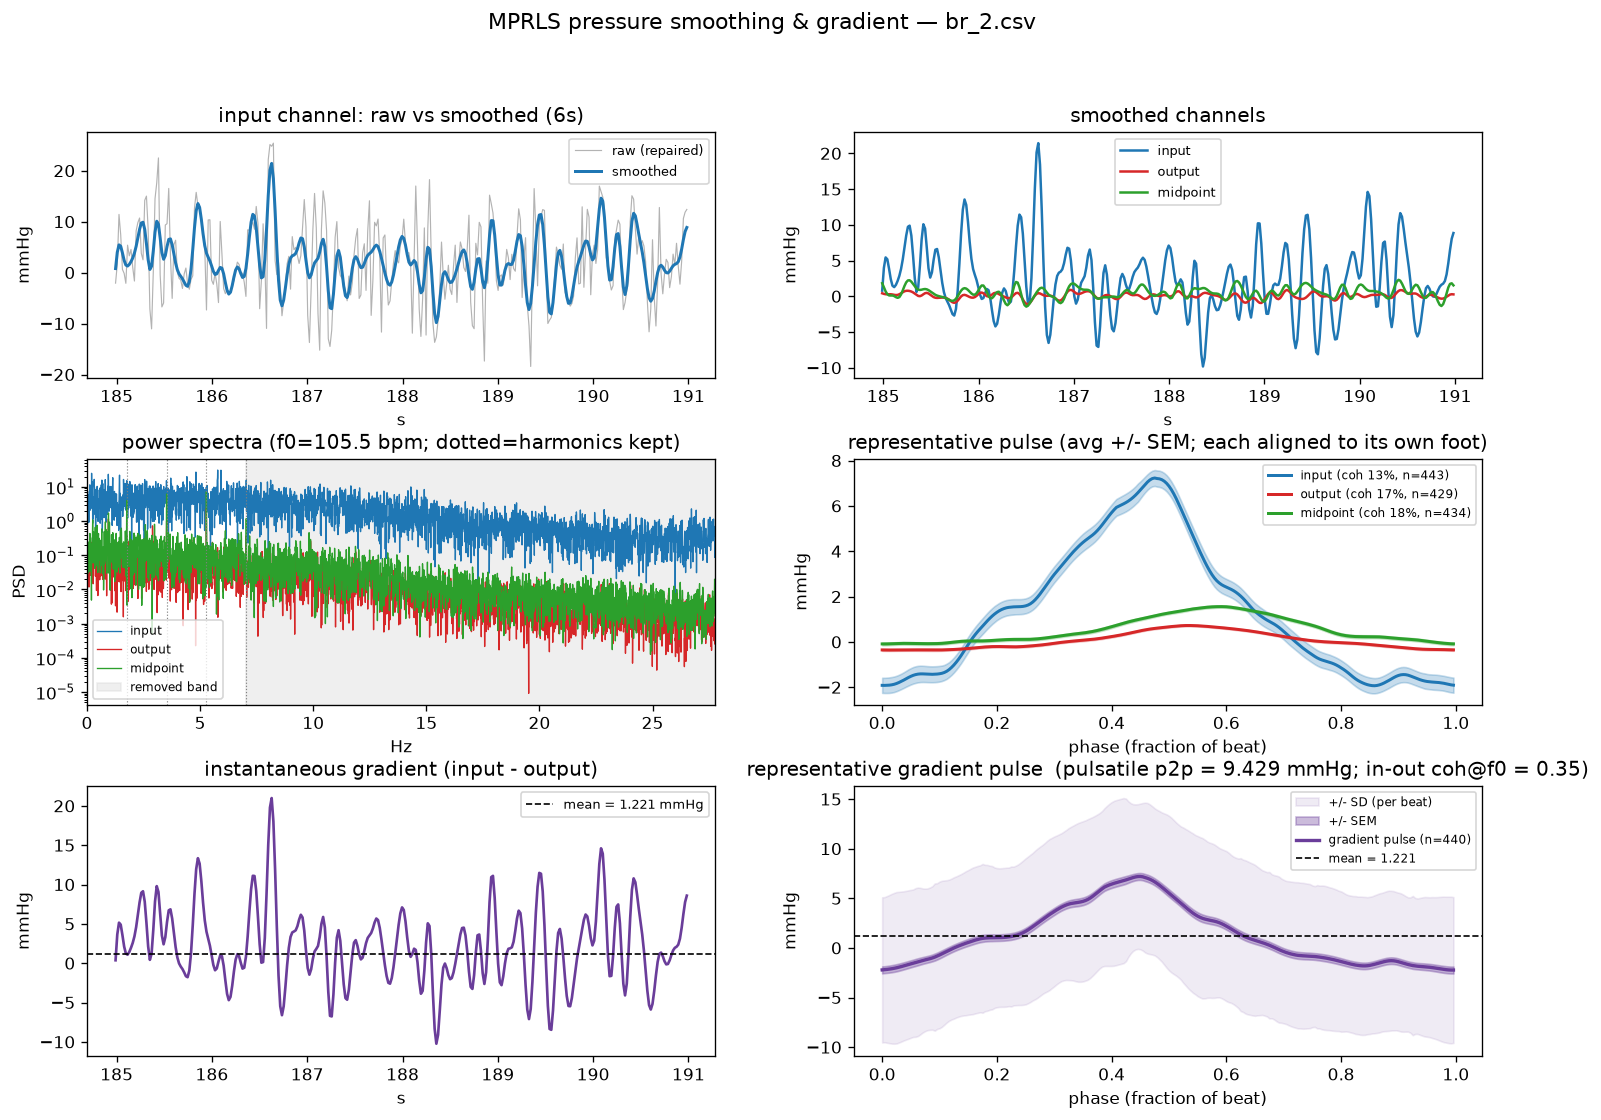
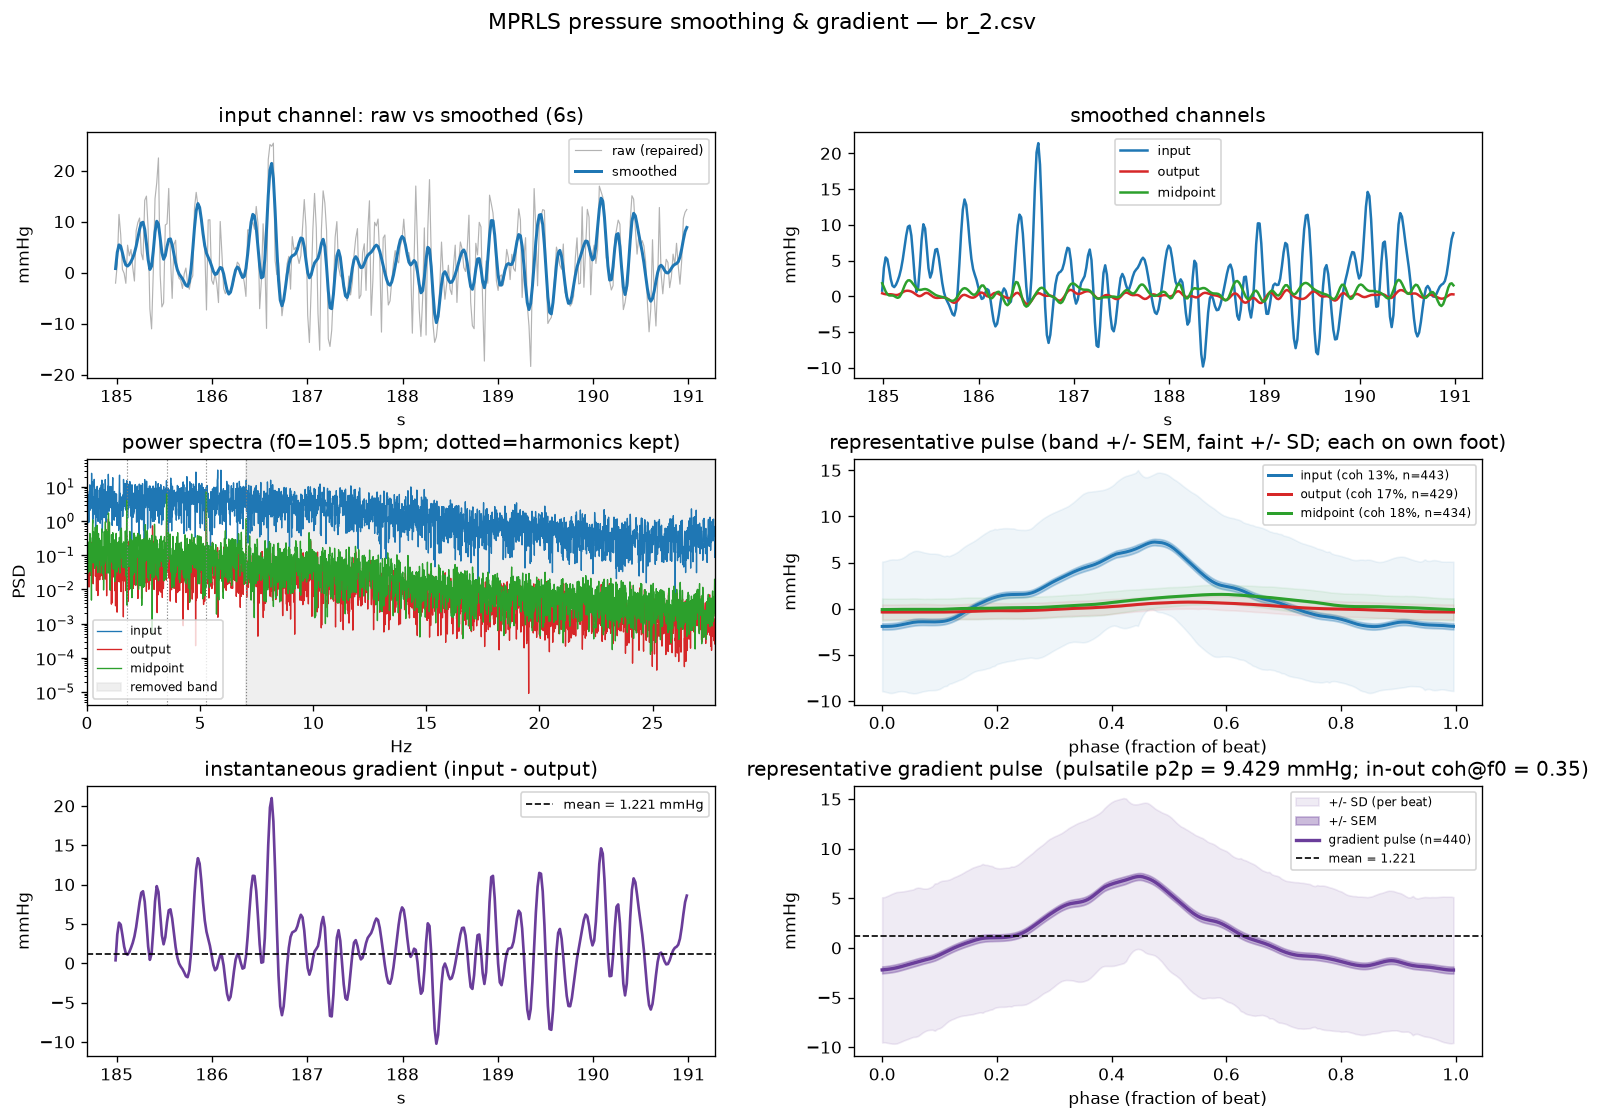
plot_pulses/plot_analysis: add +/- SD band to the representative-pulse panel
The representative-pulse panels now show both bands per channel -- SEM (how well
the mean pulse is known) and the faint per-beat SD (the beat-to-beat scatter the
vibration causes) -- matching the gradient-pulse panel. Refreshes the worked
example figures.

Claude-Session: https://claude.ai/code/session_01C8CobvnxomkoKFp8tfAX21

Changed region(s): [[0.5309, 0.375, 0.9369, 0.625], [0.4997, 0.4062, 0.5309, 0.4688], [0.4685, 0.5, 0.5309, 0.5312]]

diff --git a/mprls_pressure/pressure.py b/mprls_pressure/pressure.py
@@ -793,11 +793,13 @@ def plot_analysis(analysis: PressureAnalysis, output_path, *, zoom_s: float = 6.
     ax = fig.add_subplot(gs[1, 1])
     for name, ch in chans.items():
         if ch.n_beats:
+            ax.fill_between(ch.phase, ch.template - ch.template_std,
+                            ch.template + ch.template_std, color=colors[name], alpha=0.07)
+            ax.fill_between(ch.phase, ch.template - ch.template_sem,
+                            ch.template + ch.template_sem, color=colors[name], alpha=0.30)
             ax.plot(ch.phase, ch.template, color=colors[name], lw=1.8,
                     label=f"{name} (coh {ch.coherence*100:.0f}%, n={ch.n_beats})")
-            ax.fill_between(ch.phase, ch.template - ch.template_sem,
-                            ch.template + ch.template_sem, color=colors[name], alpha=0.25)
-    ax.set_title("representative pulse (avg +/- SEM; each aligned to its own foot)")
+    ax.set_title("representative pulse (band +/- SEM, faint +/- SD; each on own foot)")
     ax.set_xlabel("phase (fraction of beat)"); ax.set_ylabel("mmHg"); ax.legend(fontsize=7)
 
     # (2,0) instantaneous gradient, zoomed
@@ -856,14 +858,18 @@ def plot_pulses(analysis: PressureAnalysis, output_path, *, title: Optional[str]
 
     fig, (axL, axR) = plt.subplots(1, 2, figsize=(13, 5))
 
-    # left: per-channel representative pulses (mean +/- SEM), absolute mmHg scale
+    # left: per-channel representative pulses; faint band = per-beat SD (the
+    # vibration averaging removes), darker band = SEM (how well the mean pulse is
+    # known). Absolute mmHg scale.
     for name, ch in chans.items():
         if ch.n_beats:
+            axL.fill_between(ch.phase, ch.template - ch.template_std,
+                             ch.template + ch.template_std, color=colors[name], alpha=0.08)
+            axL.fill_between(ch.phase, ch.template - ch.template_sem,
+                             ch.template + ch.template_sem, color=colors[name], alpha=0.30)
             axL.plot(ch.phase, ch.template, color=colors[name], lw=2.0,
                      label=f"{name}  (p2p {ch.pulse_amplitude:.2f} mmHg, n={ch.n_beats})")
-            axL.fill_between(ch.phase, ch.template - ch.template_sem,
-                             ch.template + ch.template_sem, color=colors[name], alpha=0.25)
-    axL.set_title("Representative pulse (beat-averaged +/- SEM)")
+    axL.set_title("Representative pulse (band = +/- SEM, faint = +/- SD per beat)")
     axL.set_xlabel("phase (fraction of beat)"); axL.set_ylabel("mmHg")
     axL.legend(fontsize=8, loc="upper right")
 
